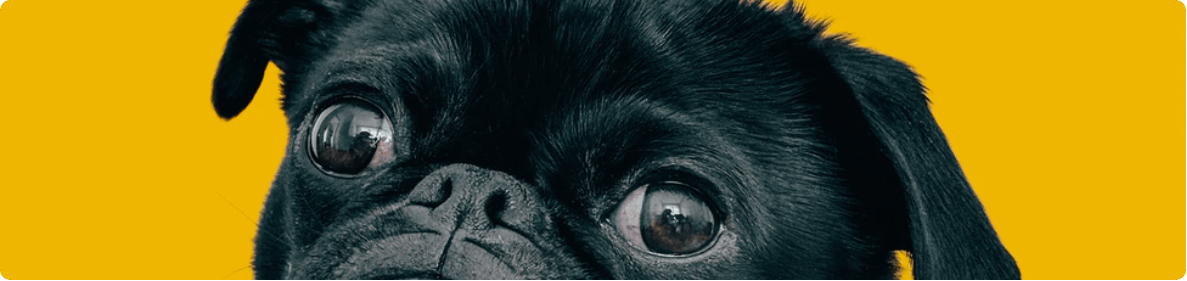
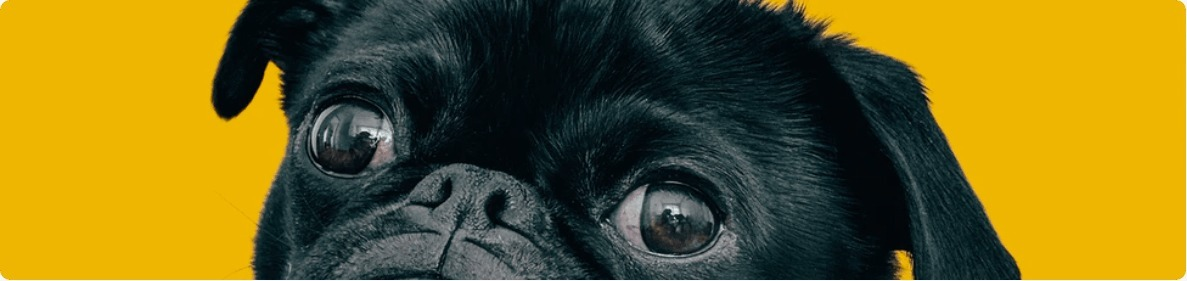
image compression
for SEO

diff --git a/assets/js/product1.js b/assets/js/product1.js
@@ -2,25 +2,20 @@
 function openModal() {
     document.getElementById("myModal").style.display = "block";
 }
-  
   // Close the Modal
 function closeModal() {
     document.getElementById("myModal").style.display = "none";
-}
-  
+} 
 var slideIndex = 1;
 showSlides(slideIndex);
-
 // Next/previous controls
 function plusSlides(n) {
     showSlides(slideIndex += n);
 }
-  
   // Thumbnail image controls
 function currentSlide(n) {
     showSlides(slideIndex = n);
-}
-  
+} 
 function showSlides(n) {
     var i;
     var slides = document.getElementsByClassName("mySlides");
@@ -38,27 +33,20 @@ function showSlides(n) {
     dots[slideIndex-1].className += " active";
     captionText.innerHTML = dots[slideIndex-1].alt;
 }
-
-
 // Open slide mobile
 function viewSlide() {
   document.getElementById("popSlide").style.display = "block";
 }
-
 // Close slide
 function closeSlide() {
   document.getElementById("popSlide").style.display = "none";
 }
-
 var imageIndex = 1;
 showImages(imageIndex);
-
-  // Thumbnail image controls
-  function currentSlide(n) {
-    showImages(imageIndex = n);
+// Thumbnail image controls
+function currentSlide(n) {
+  showImages(imageIndex = n);
 }
-
-
 function showImages(n) {
   var i;
   var images = document.getElementsByClassName("myImages");
@@ -74,8 +62,6 @@ function showImages(n) {
   images[imageIndex-1].style.display = "block";
   blocks[imageIndex-1].className += " active";
 }
-
-
 // adding items plus/minus buttom
 var clicks = 0;
 function addMore(){
@@ -87,8 +73,6 @@ function removeMore() {
   clicks -=1;
   document.getElementById("clicks").innerHTML = clicks;
 };
-
-
 // adding items plus/minus buttom for mobile
 var addItem = 0;
 function plus (){
@@ -100,7 +84,6 @@ function minus () {
   addItem -=1;
   document.getElementById("addClick").innerHTML = addItem;
 }
-
 // See more text function
 function myFunction() {
   var dots = document.getElementById("dots");
@@ -117,7 +100,6 @@ function myFunction() {
     moreText.style.display = "inline";
   }
 }
-
 // See more text function for mobile
 function seeMoreText() {
   var dots = document.getElementById("dotButton");
@@ -134,26 +116,3 @@ function seeMoreText() {
     moreText.style.display = "inline";
   }
 }
-
-
-
-  // product page sorter
-  // function myFunction(this) {
-  //   document.getElementById("myDropdown").classList.toggle("show");
-  // }
-    
-  // function filterFunction() {
-  //   var input, filter, ul, li, a, i;
-  //   input = document.getElementById("myInput");
-  //   filter = input.value.toUpperCase();
-  //   div = document.getElementById("myDropdown");
-  //   a = div.getElementsByTagName("a");
-  //   for (i = 0; i < a.length; i++) {
-  //     txtValue = a[i].textContent || a[i].innerText;
-  //     if (txtValue.toUpperCase().indexOf(filter) > -1) {
-  //       a[i].style.display = "";
-  //     } else {
-  //       a[i].style.display = "none";
-  //     }
-  //   }
-  // }

diff --git a/assets/js/app.js b/assets/js/app.js
@@ -1,8 +1,7 @@
 // menu lines
 function myFunction(x) {
     x.classList.toggle("change");
-  }
-
+}
 //   slider - swiper
 const slides = document.querySelectorAll('.slide-item');
 const slideArea = document.querySelector('.slide-area');
@@ -39,7 +38,6 @@ renderSlider();
 nextButton.addEventListener('click', nextSlide);
 prevButton.addEventListener('click', prevSlide);
 
-
 //კლავიატურის ისრებსაც გადავეცი იფივე ფუქცია, რაც აქვს next and prev slide -ის ფუნქციებს
 document.addEventListener('keydown', (e) => {
 // console.log(e.code);
@@ -53,11 +51,11 @@ if(e.code === 'ArrowLeft'){
 // release our intervalID from the variable
 let intervalId = null;
 function startAutoSliding() {
-if(!intervalId){
-    intervalId = setInterval(() => {
-    nextSlide();
-    }, 5000);
-}
+    if(!intervalId){
+        intervalId = setInterval(() => {
+        nextSlide();
+        }, 5000);
+    }
 }
 // startAutoSliding();
 // დავასელექთე ნოუდი, გავასუფთავე შენახული IntervalID
@@ -69,24 +67,9 @@ function stopAutoSliding (){
         intervalId = null;
     }
 }
-// stopAutoSliding();
-// ვისმენთ მაუსის მიტანას რომ გაჩერდეს სლაიდერი
-// mouseMove.addEventListener('mouseenter', stopAutoSliding);
-// თუ მაუსი მიტანილი მაქვს სურათზე და შემდეგ გამოვწევ 
-// სურათიდან, ავტომატური სლაიდი გაგრძელდეს.
 mouseMove.addEventListener('mouseenter', stopAutoSliding);
-// mouseMove.addEventListener('mouseleave', startAutoSliding);
-
-// 3. დავამატოთ ასეთი (ღილაკები.png) ღილაკები იმდენი 
-// რამდენი სურათიც გვაქვს, ღილაკები დავნომროთ 
-// ინდექსებით (data-index ატრიბუტი) ღილაკზე დაკლიების 
-// შემდეგ სლაიდერი უნდა გადავიდეს შესაბამის სლაიდზე 
-// (პირველ ღილაკზე თუ დავკლიკე უნდა გადავიდეს პირველ 
-// სლაიზე და ასე შემდეგ)
-
 let iconNext = document.querySelector('.dots');
 let iconItems = Object.entries(iconNext);
-
 dots.forEach((dot) => {
     dot.addEventListener('click', e => {
         const index = e.target.getAttribute('data-index');

diff --git a/assets/styles/styles.css b/assets/styles/styles.css
@@ -46,11 +46,9 @@
 .dropdown-content a:hover {
     background-color: #ddd;
 }
-  
 .line-menu:hover .dropdown-content {
     display: block;
 }
-
 .bar1, .bar2, .bar3 {
     width: 35px;
     height: 5px;
@@ -93,7 +91,6 @@
 }
 .mobile p{
     padding-right: 10px;
-
 }
 .mobile :hover {
     color: #6E6E6E;
@@ -174,7 +171,6 @@
 }
 .button-purchase span{
     position: absolute;
-    /* margin: 35px 0 0 -50px; */
     left: 43%;
     top: 65%;
     z-index: 99;
@@ -710,7 +706,6 @@ a {
     position: relative;;
     height: 500px;
     width: 378px;
-    /* margin-right: 26px; */
     box-shadow: 2px 2px 30px rgb(0 0 0 / 20%);
     border-radius: 10px;
 }
@@ -892,7 +887,6 @@ a {
     bottom: 1px;
 }
 
-
 /* bottom section, above footer */
 .block-9 {
     display: flex;
@@ -1038,7 +1032,6 @@ a {
     text-align: center;
     font-size: 18px;
     background: #fff;
-    /* Center slide text vertically */
     display: -webkit-box;
     display: -ms-flexbox;
     display: -webkit-flex;
@@ -1059,10 +1052,7 @@ a {
     object-fit: cover;
 }
 
-
-/* footer pannel */
-/* Footer */
-/* second section */
+/* Footer second section */
 .background1 {
     opacity: 0.1;
     display: flex;
@@ -1073,7 +1063,6 @@ a {
 }
 .lb {
     justify-content: flex-start;
-    /* margin-right: -60px; */
 }
 .data-box {
     display: flex;
@@ -1208,7 +1197,6 @@ a {
 }
 
 /* footer section */
-/* Footer */
 .mob-footer {
     display: none;
 }
@@ -1326,7 +1314,6 @@ a {
   }
 }
 
-
 /* footer section */
 footer {
     max-width: 1400px;
@@ -1402,7 +1389,6 @@ footer {
     width: 25px; 
     height: 25px;
 }
-
 
 /* for mobile version */
 .lang-bar {

diff --git a/assets/media/media.css b/assets/media/media.css
@@ -44,9 +44,7 @@
         justify-content: center;
     }
     .promotion1, .promotion2, .promotion3, .promotion4 {
-        /* margin-bottom: 10px; */
         margin: 0px 4px 10px 0;
-
     }
     .grid-container{
         display: flex;
@@ -166,7 +164,6 @@
     }
     .sec2 {
         max-width: 540px;
-        /* width: 100%; */
         margin-top: 10px;
         margin-bottom: 10px;
     }
@@ -188,7 +185,6 @@
         display: inline-block;
         font-size: 18px;
         padding-left: 32px;
-
     }
     .block-8 .pagination {
         display: inline-block;
@@ -255,22 +251,12 @@
         padding-top: 8px;
     }
 }
-
-
-
-
-
-
-
-/* These are just in case someone 
-wants to see  */
 @media (max-width: 768px) {
     .container, footer{
         max-width: 768px;
         width: 100%;
     }
 }
-
 @media (max-width: 996px) {
     .container{
         max-width: 990px;
@@ -294,10 +280,6 @@ wants to see  */
         grid-area: item4;
         margin-top: 200px;
     }
-    /* .item4 {
-        max-width: 855px;
-        width: 100%;
-    } */
     .detail-box {
         padding: 0px 5px;
     }
@@ -334,4 +316,3 @@ wants to see  */
         margin-left: 50px;
     }
 }
-

diff --git a/assets/media/product-page1-media.css b/assets/media/product-page1-media.css
@@ -47,17 +47,6 @@
     .prod-name, .about-product {
         margin-bottom: 20px;
     }
-    /* .price-part {
-        display: flex;
-        flex-direction: row;
-        justify-content: flex-start;
-        align-content: center;
-        align-items: center;
-    } */
-
-
-
-
     .mob-rem {
         display: none !important;
     }
@@ -206,30 +195,16 @@
         border-radius: 6px;
     }
 }
-
-
-
-
-
-
 /* 720 */
 @media (max-width: 768px) {
     .container {
         max-width: 720px;
         width: 100%;
     }
-
-
-
 }
-
-
 @media (max-width: 992px) {
     .container {
         max-width: 960px;
         width: 100%;
     }
-
-
-
 }
